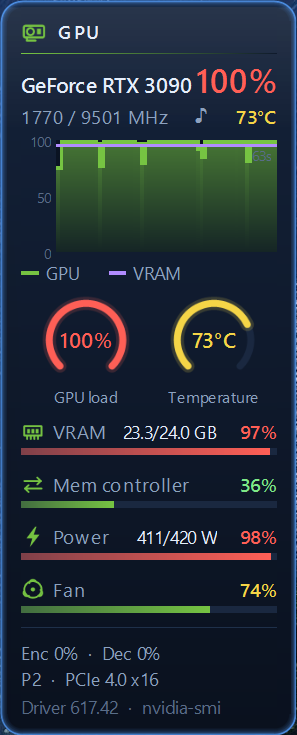
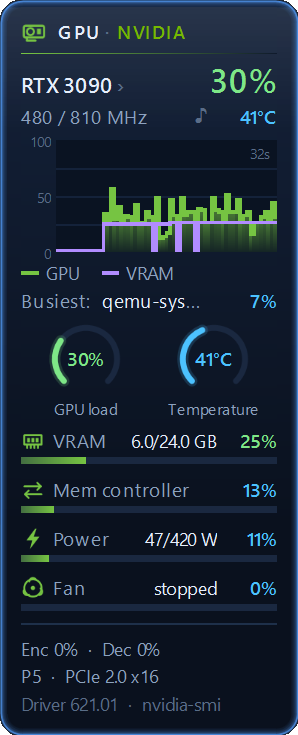
Modern Meters 1.6.0: new screenshots, graphs, busiest program, rain soon

diff --git a/modern-meters/index.html b/modern-meters/index.html
@@ -4,7 +4,7 @@
 <meta charset="utf-8">
 <meta name="viewport" content="width=device-width, initial-scale=1">
 <title>Modern Meters – Windows desktop gadgets</title>
-<meta name="description" content="Modern CPU, GPU, Network, Drives and Weather gadgets for the Windows Sidebar (8GadgetPack). 12 languages, glass, classic, light, colored glass, retro terminal and Liquid Glass styles. Free.">
+<meta name="description" content="Modern CPU, GPU, Network, Drives and Weather gadgets for the Windows Sidebar (8GadgetPack). 12 languages, glass, classic, light, colored glass, retro terminal and Liquid Glass styles, graphs you can hover. Free.">
 <meta property="og:title" content="Modern Meters – Windows desktop gadgets">
 <meta property="og:image" content="https://livonianlabs.github.io/modern-meters/img/themes-glass.png">
 <link rel="icon" href="/favicon.png">
@@ -37,12 +37,14 @@
   <div class="card">
     <h2>The gadgets</h2>
     <ul>
-      <li><strong>CPU Meter</strong> — load of every thread or core (P- and E-cores grouped), clock, temperature, RAM and commit, history graph, uptime; click the processor for the busiest programs</li>
-      <li><strong>GPU Meter</strong> — load, VRAM, power, fan, clocks, encoder/decoder, temperature; NVIDIA, AMD and Intel, discrete and integrated</li>
+      <li><strong>CPU Meter</strong> — load of every thread or core (P- and E-cores grouped), clock, temperature, RAM and commit, history graph, uptime, the busiest program right now; click the processor for the top programs</li>
+      <li><strong>GPU Meter</strong> — load, VRAM, power, fan, clocks, encoder/decoder, temperature, the busiest program on the card; NVIDIA, AMD and Intel, discrete and integrated</li>
       <li><strong>Network Meter</strong> — download and upload speed, Wi-Fi and signal, IP addresses (hidden until clicked), firewall, ping, traffic totals</li>
       <li><strong>Drives Meter</strong> — disks and partitions, SMART health, SSD life left, temperature, read/write speed</li>
-      <li><strong>Weather Meter</strong> — current weather, hourly chart (temperature, precipitation, wind, pressure), rain radar, 3 or 5 days, sunrise and sunset, UV and air quality</li>
+      <li><strong>Weather Meter</strong> — current weather, hourly chart (temperature, precipitation, wind, pressure), rain radar, 3 or 5 days, sunrise and sunset, UV and air quality, and when rain or snow starts or stops in the next two hours</li>
     </ul>
+    <h2>Graphs</h2>
+    <p>Hover over any graph to see the value at that moment and its lowest, average and highest. A graph can show the last minute or two, or 5 minutes, 15 minutes or an hour.</p>
     <h2>Styles</h2>
     <p>Glass, Classic, Light, Colored glass in eight accent colors, Retro terminal with scanlines, black-and-white, Norton Commander and Ubuntu terminals, Windows classic, Aero and Liquid Glass with your wallpaper blurred underneath, and Auto, which follows Windows' light or dark mode.</p>
   </div>
